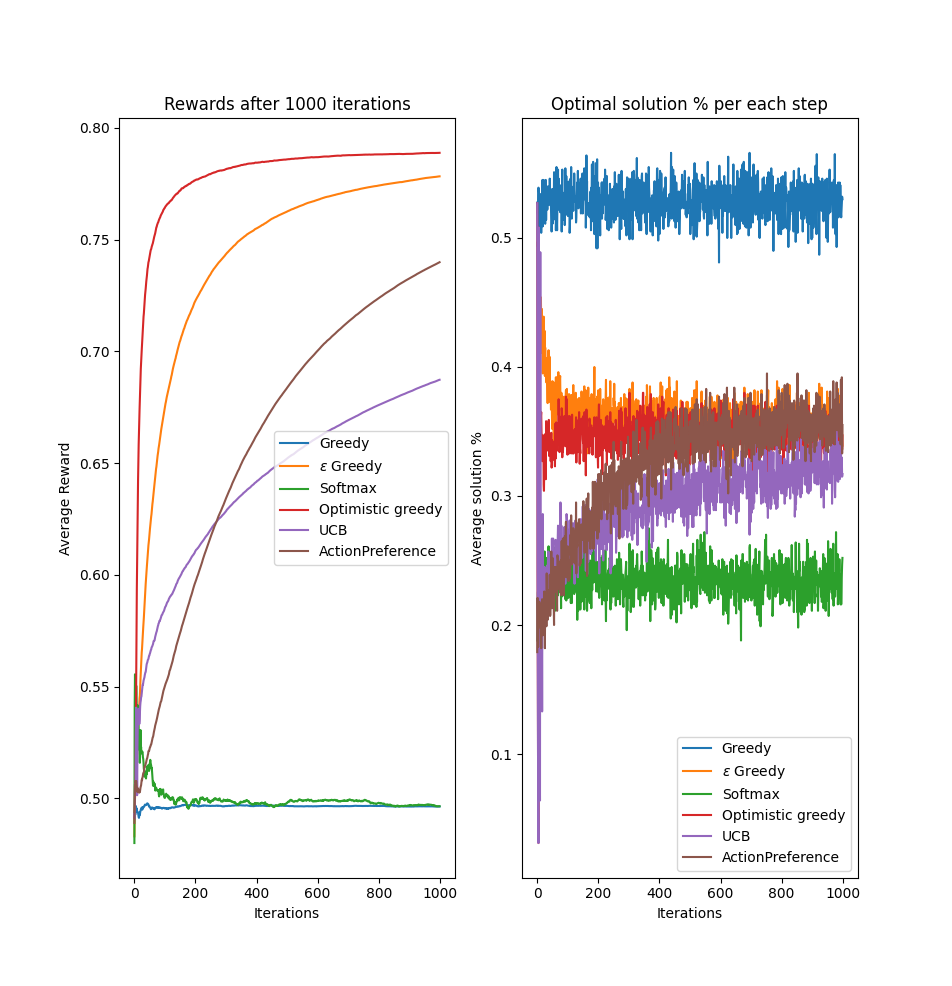
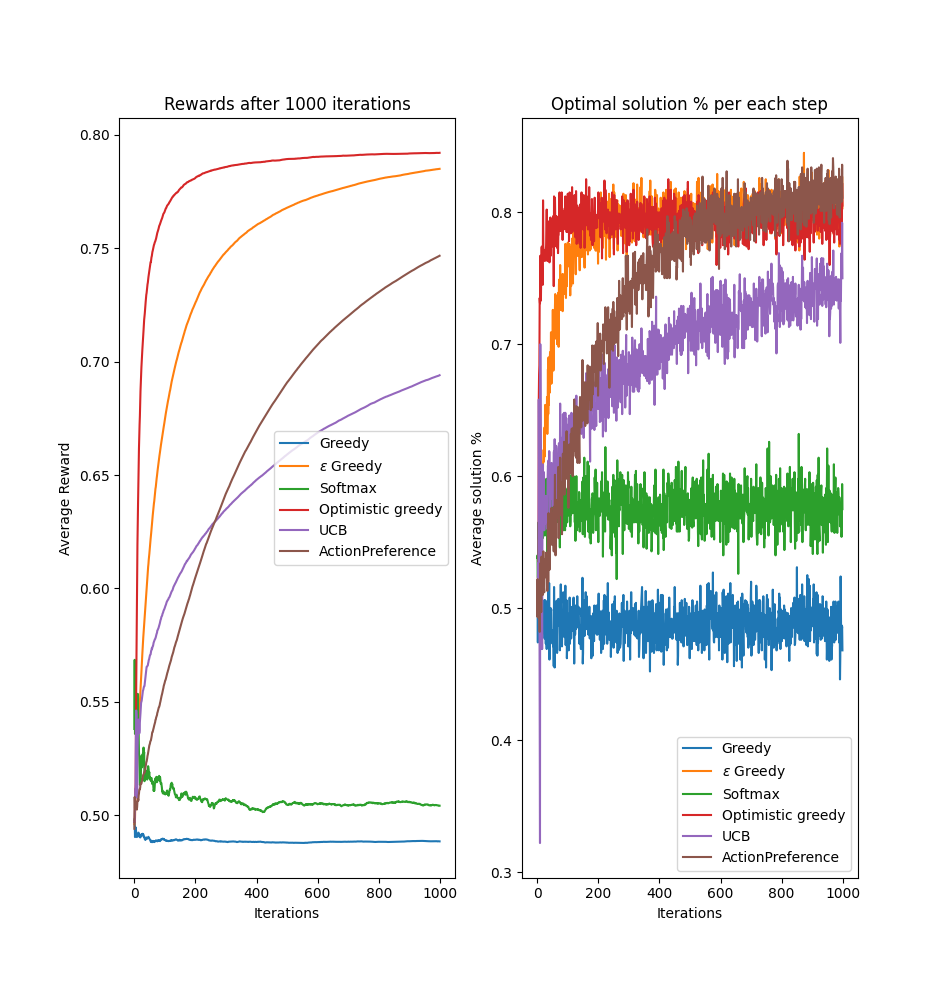
minor

diff --git a/assignment1/UCB.py b/assignment1/UCB.py
@@ -17,23 +17,6 @@ class UCB():
         self.sum_reward = np.zeros(k)
         self.n = 0
 
-    """""
-    def _choose_bandit(self):
-        for i in range(1, self.iters + 1):
-            max_upper_bound = 0
-            for idx in range(0, self.k):
-                if self.k_n[idx] > 0:
-                    avg_rank = self.sum_reward[idx] / self.k_n[idx]
-                    delta_i = math.sqrt(self.c * (math.log(i) / self.k_n[idx]))
-                    upper_bound = avg_rank + delta_i
-                else:
-                    upper_bound = 1e300
-                if upper_bound > max_upper_bound:
-                    max_upper_bound = upper_bound
-                    choice = idx
-        return choice
-    """""
-
     def _compute_uncertainty(self, idx):
         if (self.k_n[idx] > 0):
             ret = self.k_reward[idx] + (self.c*math.sqrt(math.log(self.n)/self.k_n[idx]))

diff --git a/assignment1/main.py b/assignment1/main.py
@@ -10,12 +10,12 @@ from ActionPreference import *
 
 ## PARAMETERs FOR EXPERIMENT
 N = 1000
-K = 3
+K = 5
 
 SEED = 42
 # BER or GAUSS
-MODE = "GAUSS"
-# MODE = "BER"
+# MODE = "GAUSS"
+MODE = "BER"
 
 epsilon = 0.1
 tau = 0.9
